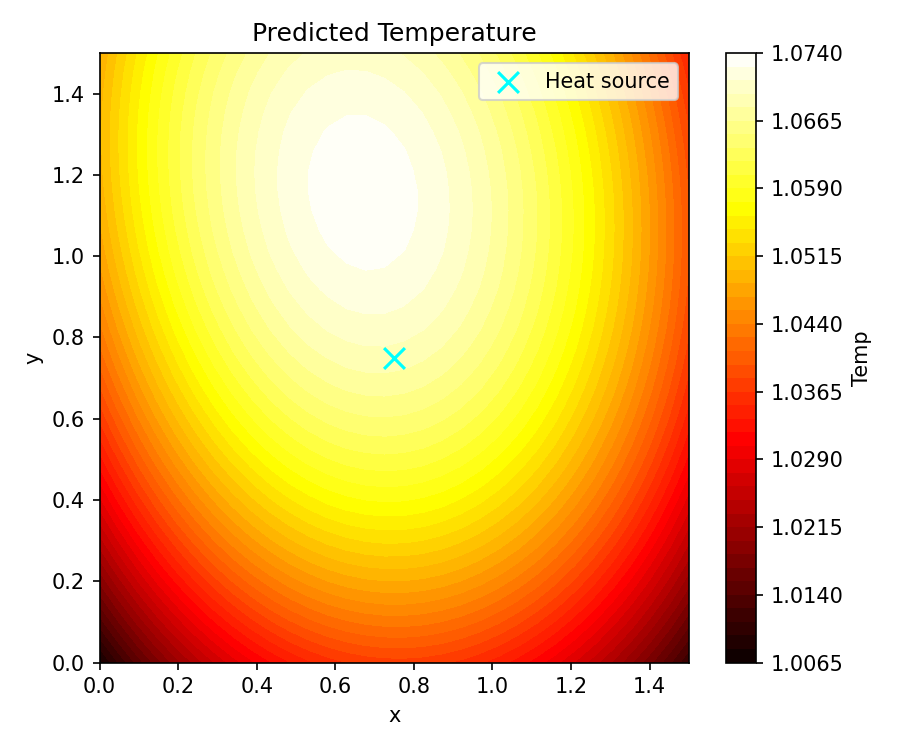
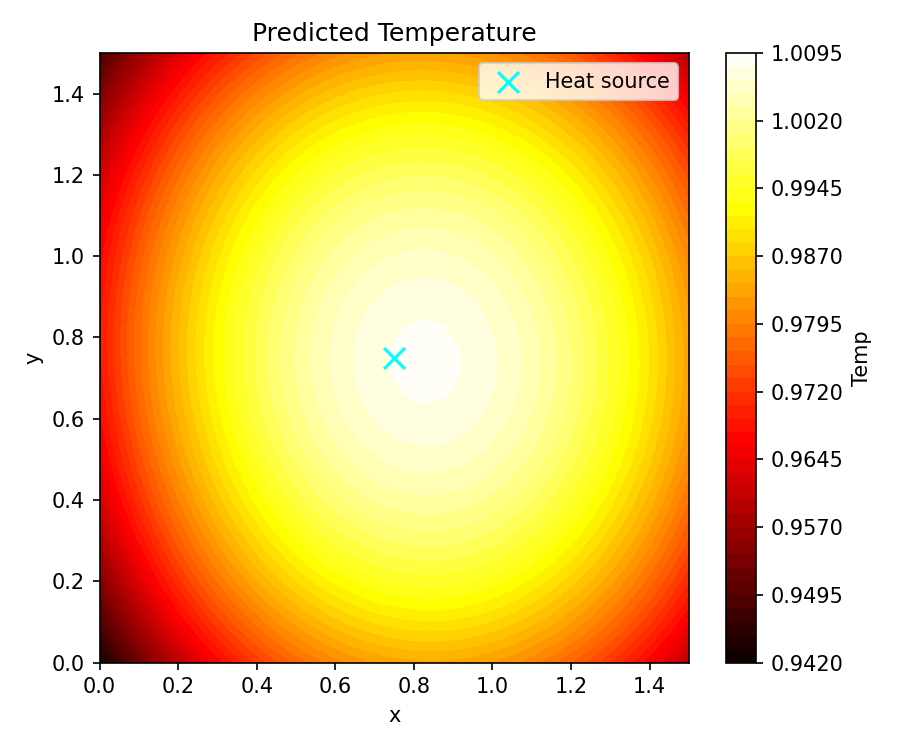
longer trial

diff --git a/src/pinns.py b/src/pinns.py
@@ -80,7 +80,7 @@ class FixedPlateModel(Component):
         loss = pd.DataFrame()
         for e in range(epochs):
             for p in power:
-                p_losses = self.train_plate(p, e//len(power))
+                p_losses = self.train_plate(p, epochs//len(power), e)
                 pd.concat([loss, p_losses], ignore_index=True)
 
         return loss
